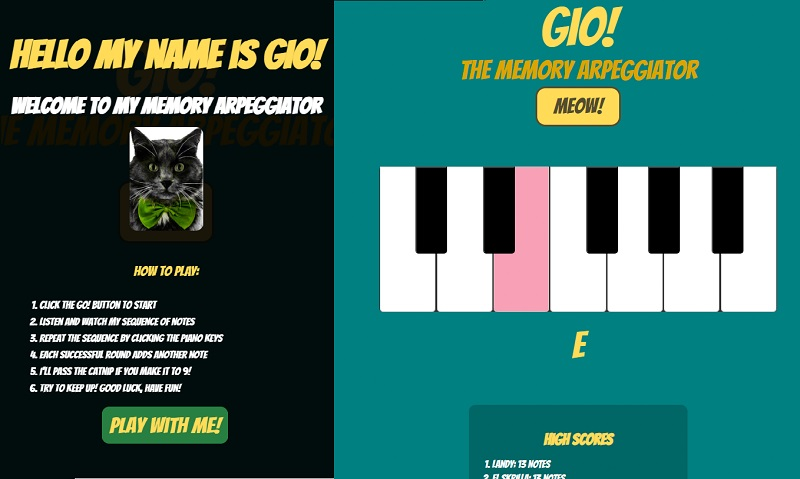
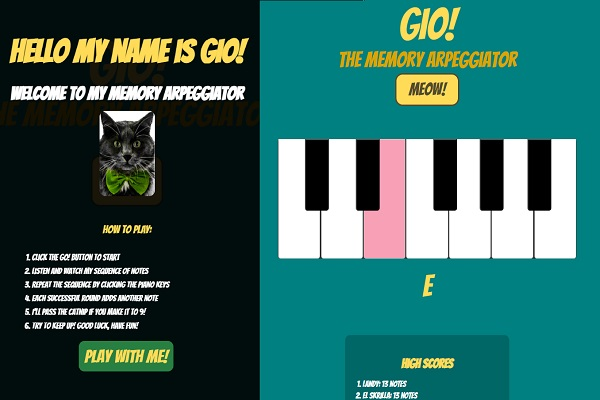
add project img wrapper

diff --git a/index.html b/index.html
@@ -44,7 +44,9 @@
             <div class="projects-grid">
             
                 <article class="project-card offset-left">
-                    <img src="images/GIOThumbnail.jpg" alt="A screenshot of the intro page and the game in action">
+                    <div class="project-img-wrapper">
+                        <img src="images/GIOThumbnail.jpg" alt="A screenshot of the intro page and the game in action">
+                    </div>
                     <div class="project-card-content">
                         <h3>Gio the Memory Arpeggiator</h3>
                         <p>A musical memory game that challenges players to repeat increasingly complex note sequences. Features synchronized audio and visual feedback, with a local storage system to track and display the top 5 high scores.</p>
@@ -61,7 +63,9 @@
                 </article>
 
                 <article class="project-card reverse offset-right">
-                    <img src="images/Brewlogue Thumbnail.jpg" alt="The Brewlogue browse beers page screenshot">
+                    <div class="project-img-wrapper">
+                        <img src="images/Brewlogue Thumbnail.jpg" alt="The Brewlogue browse beers page screenshot">
+                    </div>
                     <div class="project-card-content">
                         <h3>The Brewlogue</h3>
                         <p>A full-stack CRUD application for brew masters to catalog beers and share user reviews. Features user authentication, authorization, and full comment system with create, read, update, and delete operations. </p>
@@ -96,7 +100,9 @@
                 </article> -->
 
                 <article class="project-card reverse offset-left">
-                    <img src="images/GalleryCollectiveThumb.png" alt="The Gallery Collective artworks page screenshot">
+                    <div class="project-img-wrapper">
+                        <img src="images/GalleryCollectiveThumb.png" alt="The Gallery Collective artworks page screenshot">
+                    </div>
                     <div class="project-card-content">
                         <h3>The Gallery Collective</h3>
                         <p>A full-stack social platform for artists to share work, host events, and build collections. Features JWT user authentication with protected routes, deployed with a separate API and client.</p>

diff --git a/css/styles.css b/css/styles.css
@@ -175,13 +175,20 @@ section h2 {
     box-shadow: 0 4px 12px rgba(0,0,0,0.15);
 }
 
-.project-card img {
+.project-img-wrapper {
     width: 40%;
+    flex-shrink: 0;
+    background-color: var(--light-bg); 
+    display: flex;
+    align-items: center;
+    justify-content: center;
+    padding: var(--spacing-md);
+}
+
+.project-card img {
+    width: 100%;
     height: 300px;
     object-fit: contain;
-    flex-shrink: 0;
-    background-color: var(--light-bg);
-    padding: var(--spacing-sm);
 }
 
 .project-card-content {
